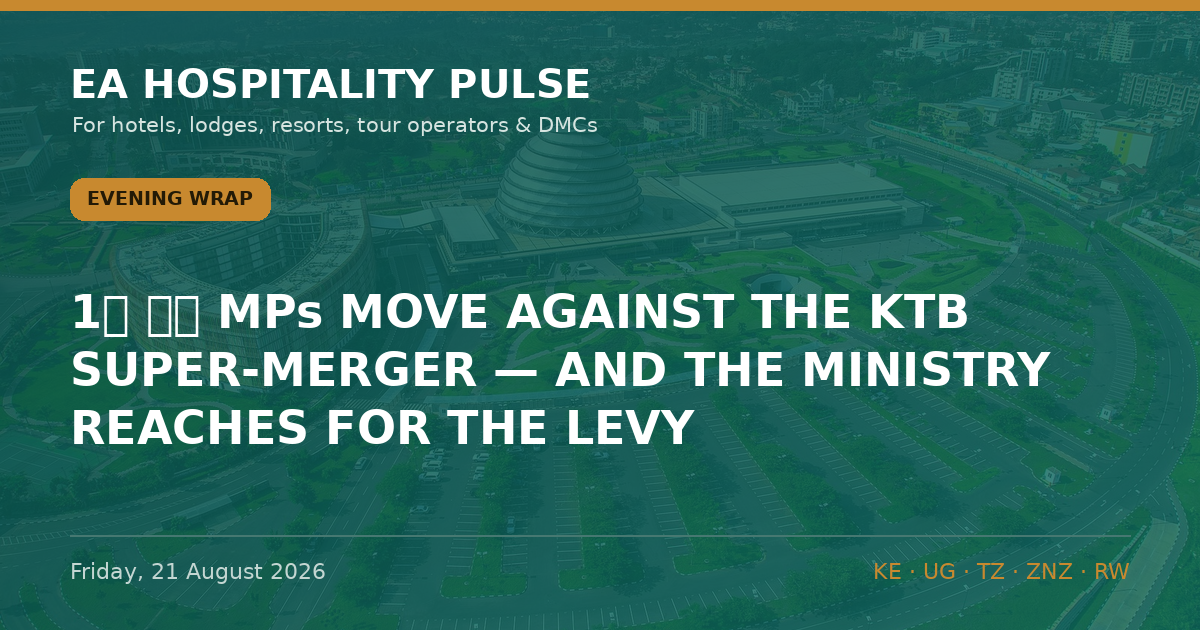
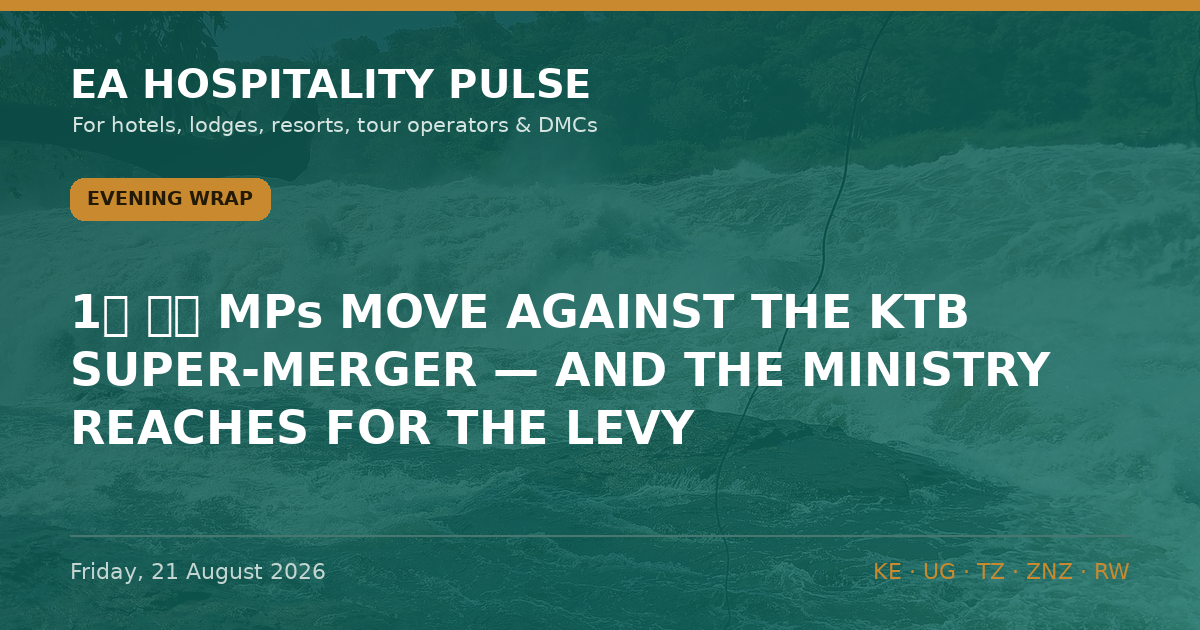
Auto-build: 2026-08-21 13:13 UTC

diff --git a/data.js b/data.js
@@ -54,15 +54,6 @@ window.EDITIONS = [
   "bodyHtml": "<p>☀ <strong>MORNING BRIEF — Tue 19 Aug 2026</strong><br><em>Quiet news slot — one expert read that matters more than any headline.</em></p>\n<p><strong>YOUR FASTEST-GROWING GUEST IS YOUR NEIGHBOUR — AND YOUR GOVERNMENT IS TAXING THEM AT THE BASE</strong></p>\n<p>Read the 2025 source-market tables and the story stops being about Europe. Uganda sent Kenya <strong>234,556 visitors in 2025 — 31% of all African arrivals, up 8.7%</strong>; Tanzania <strong>209,536, up 7.7%</strong> (KTB/TRI data via POATE 2026, reported by Citizen Digital &amp; New Vision). Kenya now targets <strong>300,000 Ugandan arrivals</strong>. In Rwanda it&#x27;s starker: the <strong>DRC is now the single largest source market — 185,420 visitors in H1 2026, 12.5% of all international arrivals</strong> (RDB). The regional guest is the base load now, not the overflow.</p>\n<p><strong>What most operators miss:</strong> the guest base changed but the playbook didn&#x27;t. The marginal booking now comes from a traveller who ignores Western Level-3 advisories, books short, drives or short-hauls in, and pays in a regional currency — yet we still run a long-haul-dollar operation: USD rack rates, GDS/OTA distribution, risk comms aimed at Europe. Worse, the same treasuries celebrating this demand are taxing its most price-sensitive flyer. Kenya&#x27;s JKIA passenger levy is now <strong>pledged to bondholders</strong> (Business Daily, 24 Jul) — hard to cut — with a 2% short-term-rental levy and a proposed travel-health-insurance charge stacking on top. Regional demand shrugs off advisories but is exquisitely sensitive to a $20 levy.</p>\n<p><span class=\"sowhat\">🎯 <strong>So what — by segment:</strong></span><br>🏙 <strong>City:</strong> regional corporate, VFR and events traffic is your steadiest base — build regional-agent and WhatsApp distribution, quote in regional terms, not just a USD rack. 🌿 <strong>Bush:</strong> regional guests are lower-ADR but fill shoulder/low season and hedge advisory-driven long-haul softness — watch the total trip cost, because a park-fee-plus-air-levy stack is what loses them. 🏖 <strong>Beach:</strong> the drive-and-short-haul market (Ugandans/Tanzanians to Diani &amp; Mombasa, regional flyers to Zanzibar) is now year-round base load — protect it from feeder-route fragility and levy creep.<br><span class=\"tagline\">🏷 Regional · Confirmed (KTB/TRI 2025, RDB H1 2026) / Inference on operator response.</span></p>\n<hr class=\"divider\">\n<p>✅ <strong>STILL TRUE</strong> — No EA advisory moved. Kenya <strong>US Level 2</strong> (core corridors, Diani, Watamu clear); Tanzania &amp; Zanzibar <strong>Level 3</strong> (since 31 Oct 2025); Uganda <strong>US Level 4</strong> on residual Ebola grounds despite its 28 Jul outbreak-over call (travel.state.gov, verified 12 Aug). The regional guest travels through all of it — don&#x27;t discount as though it had lifted.<br>💷 <strong>COST PULSE</strong> — Price regional in regional money: KES→UGX <strong>28.36</strong> · KES→TZS <strong>20.30</strong> · KES→RWF <strong>11.31</strong> (CBK weekly). Kenya diesel <strong>KSh 217.86/L</strong> (EPRA, 14 Aug) — refuse any supplier fuel surcharge this cycle.<br><span class=\"meta-line\">📅 <strong>WEEK AHEAD</strong> — <strong>19–21 Aug</strong> Hotel Expo Kenya, KICC · <strong>18–20 Aug</strong> AfPIF, Kigali Marriott · late Aug KNBS/UBOS/NISR CPI · <strong>26–28 Aug</strong> Africa Global PR Week, Nairobi · <strong>4 Sep</strong> Kwita Izina, Musanze.</span><br><span class=\"meta-line\">📡 <strong>RADAR</strong> — 470 in-window observations to 08:38 EAT; feed live. No EA advisory moved (only Mauritania/Netherlands/Ecuador flagged). Jambojet &amp; Airlink press pages moved behind Incapsula — a persistent blind spot, not news. Kenya Law feed heavy with court judgments, none hospitality.</span></p>\n<p>🔗 This edition on the web: https://eahospitalitypulse.com/editions/pulse-2026-08-19-morning.html</p>"
  },
  {
-  "id": "pulse-2026-08-18-special",
-  "date": "2026-08-18",
-  "dateDisplay": "Tuesday, 18 August 2026",
-  "edition": "Morning Brief",
-  "editionKey": "morning",
-  "summary": "1⃣ 🇰🇪 THE COAST IS OUTGROWING THE GATEWAY — AND THE NATIONAL NUMBER HIDES IT",
-  "bodyHtml": "<p>📊 <strong>EA HOSPITALITY PULSE — Special Edition</strong><br>🗓 Tuesday 18 August 2026 | 🇰🇪 KNBS data drop</p>\n<p><em>Kenya&#x27;s arrivals are up — but not where the headline says. Read the map before the margin.</em><br>━━━━━━━━━<br><strong>1⃣ 🇰🇪 THE COAST IS OUTGROWING THE GATEWAY — AND THE NATIONAL NUMBER HIDES IT</strong></p>\n<p>Official visitor arrivals now run through April. Jan–Apr 2026: <strong>828,830, up 9.5%</strong> on the same months of 2025 (757,245) — Kenya Leading Economic Indicators, June 2026, KNBS, released 14 Aug.</p>\n<p>The headline is real. The distribution is the story. Mombasa&#x27;s Moi International (MIA) took <strong>96,701 arrivals, up 19.7%</strong> year-on-year, while JKIA grew <strong>8.5%</strong> and land borders <strong>7.5%</strong>. The coast is recovering over twice as fast as the Nairobi gateway.</p>\n<p><strong>What everyone is missing:</strong> the +9.5% is not evenly yours. In April — the long-rains trough — national arrivals rose just 2.9% and <strong>JKIA fell 1.0%</strong> YoY. Strip the coast out and the city-gateway recovery is modest and seasonal. A Nairobi GM reading &quot;+9.5%&quot; as their own demand is reading the wrong line. Backing it: SGR passengers ran <strong>~12% ahead</strong> in Q1 — the Nairobi–Mombasa corridor is carrying this (KNBS).</p>\n<p><span class=\"tagline\">🏷 City/Beach · Kenya · Confirmed (KNBS arrivals &amp; SGR) / Inference (regional read)</span><br><span class=\"sowhat\">🎯 <strong>So what:</strong> <strong>Coast</strong> — demand is arriving; hold rate through the Sep–Oct build and stop discounting. <strong>Nairobi</strong> — treat H1 as flat-to-soft on your own gateway; win share through corporate, MICE and regional traffic, not a rising tide.</span></p>\n<p><strong>2⃣ 🇰🇪 THE CURRENCY IS QUIETLY REPRICING YOUR EUROPEAN GUEST</strong></p>\n<p>Over H1 2026 the shilling <strong>firmed</strong> against sterling (174.32→<strong>172.72</strong>) and the euro (151.37→<strong>149.22</strong>), flat against the dollar at <strong>~129.5</strong> (KNBS, June). Inflation sat at <strong>6.4%</strong>, the CBR held at <strong>8.75%</strong>.</p>\n<p>Read together: a European operator&#x27;s fixed FX budget now buys <strong>fewer shillings</strong> than in January — mild pressure on any KES-cost property selling into Europe, while dollar-priced lodges keep their spread intact.</p>\n<p><span class=\"tagline\">🏷 City/Bush/Beach · Kenya · Confirmed (KNBS forex/CPI) / Inference (pricing read)</span><br><span class=\"sowhat\">🎯 <strong>So what:</strong> If you cost in shillings and sell in euros or pounds, revisit 2027 contract rates now — the FX drift is against you. Price in USD and you&#x27;re insulated.</span></p>\n<p>━━━━━━━━━<br>🍲 <strong>SUPPLY-CHAIN SIDEBAR — where your southern-circuit kitchen shops</strong></p>\n<p>Informal cross-border trade <strong>fell 16.7%</strong> in 2025 (KSh 299.0m→249.1m), and <strong>Tanzania became the top source of informal imports at 47.2%</strong>, overwhelmingly <strong>food and live animals (78.5%)</strong> — KNBS Informal Cross-Border Trade Survey 2025, released 17 Aug. Main entry points: <strong>Namanga, Isebania, Malaba</strong> — the Amboseli, Mara and Uganda corridors.</p>\n<p><span class=\"sowhat\">🎯 <strong>So what:</strong> Southern-circuit lodges run partly on this informal Tanzanian fresh-food flow. A contracting, Tanzania-concentrated supply line is a produce-cost and continuity risk — worth a word with your F&amp;B suppliers before high season. 🏷 Bush · Confirmed (KNBS ICBT) / Inference.</span></p>\n<p>━━━━━━━━━<br>✅ <strong>STILL TRUE</strong> — Kenya remains US <strong>Level 2</strong>; core corridors (Nairobi, Diani, Watamu) sit in no Level 4 area (travel.state.gov, verified 12 Aug). Don&#x27;t discount on a story that hasn&#x27;t moved.</p>\n<p>⚡ <strong>COST PULSE</strong> — Nairobi diesel holds <strong>KSh 217.86/L</strong> to 14 Sep, ~KSh 14.28/L above landed-cost parity (EPRA / Business Daily, 14 Aug).</p>\n<p><span class=\"meta-line\">📅 <strong>WEEK AHEAD</strong> — <strong>19–21 Aug</strong> Hotel Expo Kenya, KICC · <strong>26–28 Aug</strong> Africa Global PR Week, Nairobi. Watch the <strong>May–June arrivals</strong> print to confirm the coast trend.</span></p>\n<p>🔗 This edition on the web: https://eahospitalitypulse.com/editions/pulse-2026-08-18-special.html<br>— EA Hospitality Pulse | Daily intelligence for city, bush &amp; beach properties</p>"
- },
- {
   "id": "pulse-2026-08-18-morning",
   "date": "2026-08-18",
   "dateDisplay": "Tuesday, 18 August 2026",
@@ -70,6 +61,15 @@ window.EDITIONS = [
   "editionKey": "morning",
   "summary": "1⃣ 🌍 THE AIRLIFT YOU'RE CELEBRATING IS THE LEAST PROFITABLE IN THE WORLD",
   "bodyHtml": "<p>🌅 <strong>EA HOSPITALITY PULSE — Morning Brief</strong><br>🗓 Tuesday 18 August 2026 | 🌍 🇰🇪 🇺🇬 🇷🇼 🇹🇿</p>\n<p><em>Expert Brief: East Africa is adding air routes faster than its airlines can afford to fly them.</em><br>━━━━━━━━━<br><strong>1⃣ 🌍 THE AIRLIFT YOU&#x27;RE CELEBRATING IS THE LEAST PROFITABLE IN THE WORLD</strong></p>\n<p>Every route launch lands as good news in this business. Uganda Airlines opens Entebbe–Accra on 27 Oct and daily Entebbe–Kigali on 18 Nov (announced 5 Aug, The EastAfrican); Airlink starts Cape Town–Zanzibar on 3 Oct. Read the balance sheet underneath and the mood changes.</p>\n<p>IATA&#x27;s December outlook put African carriers at <strong>US$1.30 of profit per passenger</strong> for 2026 against a <strong>US$7.90</strong> global average — a <strong>1.3% margin, the thinnest of any region</strong> (IATA, 9 Dec 2025). By its June AGM it had cut the 2026 line again: profit per passenger down to <strong>40 US cents</strong> from US$2.10 in 2025, and the continent&#x27;s total net profit halved to <strong>~US$100m</strong> (IATA &quot;Energy in Crisis&quot; outlook, 8 Jun 2026). East Africa&#x27;s recovery is riding on the most fragile airlift economics on the planet.</p>\n<p><strong>What everyone is missing:</strong> a new-route press release reads as demand arriving. It is actually thin-margin capacity being <strong>lent</strong> — and thin-margin capacity is the first thing cut when a season underperforms. Turkish suspended 18 routes for summer 2026, Istanbul–Dar es Salaam among them, final flights in May/June (reported 2026). The route you don&#x27;t help fill in its first two seasons is the route that isn&#x27;t there in year three. Airlift is not infrastructure you inherit; it&#x27;s a trade relationship you keep alive.</p>\n<p><span class=\"tagline\">🏷 City/Bush/Beach · Regional · Confirmed (IATA figures &amp; schedules) / Inference (fragility read)</span><br><span class=\"sowhat\">🎯 <strong>So what — by segment:</strong> <strong>City</strong> (Nairobi/Kigali/Kampala): put corporate blocks and MICE contracts onto the new regional frequencies so they survive to a third season. <strong>Bush:</strong> the luxury pivot means fewer, higher-value guests who still need a long-haul seat — cultivate the carriers that actually serve your source markets. <strong>Beach:</strong> feeder routes are the most fragile of all — a trial like Cape Town–Zanzibar lives or dies on load factor. Fill it or lose it.</span></p>\n<p>━━━━━━━━━<br>✅ <strong>STILL TRUE</strong> — Tanzania &amp; Zanzibar remain US <strong>Level 3</strong> (unchanged since 31 Oct 2025); Kenya <strong>Level 2</strong>, core tourist corridors clear (travel.state.gov, verified 12 Aug). Nothing moved overnight. Don&#x27;t discount as though it had.</p>\n<p>⚡ <strong>COST PULSE</strong> — Nairobi diesel holds at <strong>KSh 217.86/L</strong> to 14 Sep; operators are carrying roughly <strong>KSh 14.28/L above landed-cost parity</strong> — refuse any supplier fuel surcharge this cycle (EPRA / Business Daily, 14 Aug).</p>\n<p>🎤 <strong>MICE WATCH</strong> — <strong>AfPIF</strong> (300–500 delegates) fills the Kigali Marriott cluster <strong>18–20 Aug</strong>; <strong>Hotel Expo Kenya</strong> at KICC, <strong>19–21 Aug</strong>. Hold corporate rate, don&#x27;t discount into the shoulder.</p>\n<p><span class=\"meta-line\">📅 <strong>WEEK AHEAD</strong> — <strong>18 Aug</strong> WHO IHR Committee on the Bundibugyo PHEIC · <strong>22 Aug</strong> Julius Nyerere hydropower inauguration, TZ · <strong>26–28 Aug</strong> Africa Global PR Week, Mövenpick Nairobi · <strong>28 Aug</strong> WTA Africa Gala, Zanzibar · <strong>late Aug</strong> KNBS/UBOS/NISR CPI prints.</span></p>\n<p><span class=\"meta-line\">📡 <strong>RADAR</strong> — 593 in-window observations to 08:17 EAT; feed live. Jambojet and Airlink press pages moved again behind Incapsula — a persistent blind spot, not a quiet night. Kenya Law feed heavy with court judgments, none hospitality. No advisory level moved.</span></p>\n<p><span class=\"meta-line\">💬 Which inbound route would you actually miss — and are you filling it, or just watching it?</span></p>\n<p>🔗 This edition on the web: https://eahospitalitypulse.com/editions/pulse-2026-08-18-morning.html<br>— EA Hospitality Pulse | Daily intelligence for city, bush &amp; beach properties</p>"
+ },
+ {
+  "id": "pulse-2026-08-18-special",
+  "date": "2026-08-18",
+  "dateDisplay": "Tuesday, 18 August 2026",
+  "edition": "Morning Brief",
+  "editionKey": "morning",
+  "summary": "1⃣ 🇰🇪 THE COAST IS OUTGROWING THE GATEWAY — AND THE NATIONAL NUMBER HIDES IT",
+  "bodyHtml": "<p>📊 <strong>EA HOSPITALITY PULSE — Special Edition</strong><br>🗓 Tuesday 18 August 2026 | 🇰🇪 KNBS data drop</p>\n<p><em>Kenya&#x27;s arrivals are up — but not where the headline says. Read the map before the margin.</em><br>━━━━━━━━━<br><strong>1⃣ 🇰🇪 THE COAST IS OUTGROWING THE GATEWAY — AND THE NATIONAL NUMBER HIDES IT</strong></p>\n<p>Official visitor arrivals now run through April. Jan–Apr 2026: <strong>828,830, up 9.5%</strong> on the same months of 2025 (757,245) — Kenya Leading Economic Indicators, June 2026, KNBS, released 14 Aug.</p>\n<p>The headline is real. The distribution is the story. Mombasa&#x27;s Moi International (MIA) took <strong>96,701 arrivals, up 19.7%</strong> year-on-year, while JKIA grew <strong>8.5%</strong> and land borders <strong>7.5%</strong>. The coast is recovering over twice as fast as the Nairobi gateway.</p>\n<p><strong>What everyone is missing:</strong> the +9.5% is not evenly yours. In April — the long-rains trough — national arrivals rose just 2.9% and <strong>JKIA fell 1.0%</strong> YoY. Strip the coast out and the city-gateway recovery is modest and seasonal. A Nairobi GM reading &quot;+9.5%&quot; as their own demand is reading the wrong line. Backing it: SGR passengers ran <strong>~12% ahead</strong> in Q1 — the Nairobi–Mombasa corridor is carrying this (KNBS).</p>\n<p><span class=\"tagline\">🏷 City/Beach · Kenya · Confirmed (KNBS arrivals &amp; SGR) / Inference (regional read)</span><br><span class=\"sowhat\">🎯 <strong>So what:</strong> <strong>Coast</strong> — demand is arriving; hold rate through the Sep–Oct build and stop discounting. <strong>Nairobi</strong> — treat H1 as flat-to-soft on your own gateway; win share through corporate, MICE and regional traffic, not a rising tide.</span></p>\n<p><strong>2⃣ 🇰🇪 THE CURRENCY IS QUIETLY REPRICING YOUR EUROPEAN GUEST</strong></p>\n<p>Over H1 2026 the shilling <strong>firmed</strong> against sterling (174.32→<strong>172.72</strong>) and the euro (151.37→<strong>149.22</strong>), flat against the dollar at <strong>~129.5</strong> (KNBS, June). Inflation sat at <strong>6.4%</strong>, the CBR held at <strong>8.75%</strong>.</p>\n<p>Read together: a European operator&#x27;s fixed FX budget now buys <strong>fewer shillings</strong> than in January — mild pressure on any KES-cost property selling into Europe, while dollar-priced lodges keep their spread intact.</p>\n<p><span class=\"tagline\">🏷 City/Bush/Beach · Kenya · Confirmed (KNBS forex/CPI) / Inference (pricing read)</span><br><span class=\"sowhat\">🎯 <strong>So what:</strong> If you cost in shillings and sell in euros or pounds, revisit 2027 contract rates now — the FX drift is against you. Price in USD and you&#x27;re insulated.</span></p>\n<p>━━━━━━━━━<br>🍲 <strong>SUPPLY-CHAIN SIDEBAR — where your southern-circuit kitchen shops</strong></p>\n<p>Informal cross-border trade <strong>fell 16.7%</strong> in 2025 (KSh 299.0m→249.1m), and <strong>Tanzania became the top source of informal imports at 47.2%</strong>, overwhelmingly <strong>food and live animals (78.5%)</strong> — KNBS Informal Cross-Border Trade Survey 2025, released 17 Aug. Main entry points: <strong>Namanga, Isebania, Malaba</strong> — the Amboseli, Mara and Uganda corridors.</p>\n<p><span class=\"sowhat\">🎯 <strong>So what:</strong> Southern-circuit lodges run partly on this informal Tanzanian fresh-food flow. A contracting, Tanzania-concentrated supply line is a produce-cost and continuity risk — worth a word with your F&amp;B suppliers before high season. 🏷 Bush · Confirmed (KNBS ICBT) / Inference.</span></p>\n<p>━━━━━━━━━<br>✅ <strong>STILL TRUE</strong> — Kenya remains US <strong>Level 2</strong>; core corridors (Nairobi, Diani, Watamu) sit in no Level 4 area (travel.state.gov, verified 12 Aug). Don&#x27;t discount on a story that hasn&#x27;t moved.</p>\n<p>⚡ <strong>COST PULSE</strong> — Nairobi diesel holds <strong>KSh 217.86/L</strong> to 14 Sep, ~KSh 14.28/L above landed-cost parity (EPRA / Business Daily, 14 Aug).</p>\n<p><span class=\"meta-line\">📅 <strong>WEEK AHEAD</strong> — <strong>19–21 Aug</strong> Hotel Expo Kenya, KICC · <strong>26–28 Aug</strong> Africa Global PR Week, Nairobi. Watch the <strong>May–June arrivals</strong> print to confirm the coast trend.</span></p>\n<p>🔗 This edition on the web: https://eahospitalitypulse.com/editions/pulse-2026-08-18-special.html<br>— EA Hospitality Pulse | Daily intelligence for city, bush &amp; beach properties</p>"
  },
  {
   "id": "pulse-2026-08-17-evening",
@@ -2735,4 +2735,4 @@ window.INSIGHTS = [
   "editionKey": "evening"
  }
 ];
-window.BUILT_AT = "2026-08-21 16:11";
+window.BUILT_AT = "2026-08-21 13:13";

diff --git a/editions/pulse-2026-08-17-evening.html b/editions/pulse-2026-08-17-evening.html
@@ -139,7 +139,7 @@ footer.s{text-align:center;color:var(--muted);font-family:Helvetica Neue,Arial,s
 <p>🔗 This edition on the web: https://eahospitalitypulse.com/editions/pulse-2026-08-17-evening.html<br>💼 Today&#x27;s Big Read on LinkedIn: https://www.linkedin.com/company/ea-hospitality-pulse/<br>— EA Hospitality Pulse | Daily intelligence for city, bush &amp; beach properties</p>
     <div class="more"><b>More from Monday, 17 August 2026:</b> <a href="pulse-2026-08-17-midday.html">Midday Pulse</a></div>
     <aside class="refs" aria-label="Reference guides"><h2>Reference</h2><ul><li><a href="../guides/ota-commission-what-it-actually-costs.html">What OTA commission actually costs an East African hotel</a></li><li><a href="../guides/park-permit-fees-east-africa.html">Park and permit fees across East Africa: what to check before you quote</a></li><li><a href="../guides/sustainability-compliance-east-africa.html">Sustainability compliance in East Africa — plastics, carbon and certification, without the hype</a></li><li><a href="../guides/tech-stack-east-africa.html">The East African hotel tech stack — payment costs, PMS fit and where AI pricing actually works</a></li><li><a href="../guides/travel-advisories-what-actually-moves-bookings.html">Reading a travel advisory: what actually moves bookings</a></li></ul></aside>
-    <nav class="pnrow"><a class="pn prev" href="pulse-2026-08-17-midday.html" rel="prev">← Midday Pulse · Monday, 17 August 2026</a><a class="pn next" href="pulse-2026-08-18-morning.html" rel="next">Morning Brief · Tuesday, 18 August 2026 →</a></nav>
+    <nav class="pnrow"><a class="pn prev" href="pulse-2026-08-17-midday.html" rel="prev">← Midday Pulse · Monday, 17 August 2026</a><a class="pn next" href="pulse-2026-08-18-special.html" rel="next">Morning Brief · Tuesday, 18 August 2026 →</a></nav>
     <div class="sub">
       <b>Follow the Pulse</b> — three briefs a day across Kenya, Uganda, Tanzania, Zanzibar &amp; Rwanda.<br>
       <a href="https://t.me/eahospitalitypulse" target="_blank" rel="noopener">📣 Telegram (full editions)</a>

diff --git a/editions/pulse-2026-08-18-morning.html b/editions/pulse-2026-08-18-morning.html
@@ -141,7 +141,7 @@ footer.s{text-align:center;color:var(--muted);font-family:Helvetica Neue,Arial,s
 <p>🔗 This edition on the web: https://eahospitalitypulse.com/editions/pulse-2026-08-18-morning.html<br>— EA Hospitality Pulse | Daily intelligence for city, bush &amp; beach properties</p>
     <div class="more"><b>More from Tuesday, 18 August 2026:</b> <a href="pulse-2026-08-18-special.html">Morning Brief</a></div>
     <aside class="refs" aria-label="Reference guides"><h2>Reference</h2><ul><li><a href="../guides/ota-commission-what-it-actually-costs.html">What OTA commission actually costs an East African hotel</a></li><li><a href="../guides/park-permit-fees-east-africa.html">Park and permit fees across East Africa: what to check before you quote</a></li><li><a href="../guides/sustainability-compliance-east-africa.html">Sustainability compliance in East Africa — plastics, carbon and certification, without the hype</a></li><li><a href="../guides/tech-stack-east-africa.html">The East African hotel tech stack — payment costs, PMS fit and where AI pricing actually works</a></li><li><a href="../guides/travel-advisories-what-actually-moves-bookings.html">Reading a travel advisory: what actually moves bookings</a></li></ul></aside>
-    <nav class="pnrow"><a class="pn prev" href="pulse-2026-08-17-evening.html" rel="prev">← Evening Wrap · Monday, 17 August 2026</a><a class="pn next" href="pulse-2026-08-18-special.html" rel="next">Morning Brief · Tuesday, 18 August 2026 →</a></nav>
+    <nav class="pnrow"><a class="pn prev" href="pulse-2026-08-18-special.html" rel="prev">← Morning Brief · Tuesday, 18 August 2026</a><a class="pn next" href="pulse-2026-08-19-morning.html" rel="next">Morning Brief · Wednesday, 19 August 2026 →</a></nav>
     <div class="sub">
       <b>Follow the Pulse</b> — three briefs a day across Kenya, Uganda, Tanzania, Zanzibar &amp; Rwanda.<br>
       <a href="https://t.me/eahospitalitypulse" target="_blank" rel="noopener">📣 Telegram (full editions)</a>

diff --git a/editions/pulse-2026-08-18-special.html b/editions/pulse-2026-08-18-special.html
@@ -145,7 +145,7 @@ footer.s{text-align:center;color:var(--muted);font-family:Helvetica Neue,Arial,s
 <p>🔗 This edition on the web: https://eahospitalitypulse.com/editions/pulse-2026-08-18-special.html<br>— EA Hospitality Pulse | Daily intelligence for city, bush &amp; beach properties</p>
     <div class="more"><b>More from Tuesday, 18 August 2026:</b> <a href="pulse-2026-08-18-morning.html">Morning Brief</a></div>
     <aside class="refs" aria-label="Reference guides"><h2>Reference</h2><ul><li><a href="../guides/ota-commission-what-it-actually-costs.html">What OTA commission actually costs an East African hotel</a></li><li><a href="../guides/park-permit-fees-east-africa.html">Park and permit fees across East Africa: what to check before you quote</a></li><li><a href="../guides/sustainability-compliance-east-africa.html">Sustainability compliance in East Africa — plastics, carbon and certification, without the hype</a></li><li><a href="../guides/tech-stack-east-africa.html">The East African hotel tech stack — payment costs, PMS fit and where AI pricing actually works</a></li><li><a href="../guides/travel-advisories-what-actually-moves-bookings.html">Reading a travel advisory: what actually moves bookings</a></li></ul></aside>
-    <nav class="pnrow"><a class="pn prev" href="pulse-2026-08-18-morning.html" rel="prev">← Morning Brief · Tuesday, 18 August 2026</a><a class="pn next" href="pulse-2026-08-19-morning.html" rel="next">Morning Brief · Wednesday, 19 August 2026 →</a></nav>
+    <nav class="pnrow"><a class="pn prev" href="pulse-2026-08-17-evening.html" rel="prev">← Evening Wrap · Monday, 17 August 2026</a><a class="pn next" href="pulse-2026-08-18-morning.html" rel="next">Morning Brief · Tuesday, 18 August 2026 →</a></nav>
     <div class="sub">
       <b>Follow the Pulse</b> — three briefs a day across Kenya, Uganda, Tanzania, Zanzibar &amp; Rwanda.<br>
       <a href="https://t.me/eahospitalitypulse" target="_blank" rel="noopener">📣 Telegram (full editions)</a>

diff --git a/editions/pulse-2026-08-19-morning.html b/editions/pulse-2026-08-19-morning.html
@@ -136,7 +136,7 @@ footer.s{text-align:center;color:var(--muted);font-family:Helvetica Neue,Arial,s
 <p>🔗 This edition on the web: https://eahospitalitypulse.com/editions/pulse-2026-08-19-morning.html</p>
     <div class="more"><b>More from Wednesday, 19 August 2026:</b> <a href="pulse-2026-08-19-evening.html">Evening Wrap</a></div>
     <aside class="refs" aria-label="Reference guides"><h2>Reference</h2><ul><li><a href="../guides/ota-commission-what-it-actually-costs.html">What OTA commission actually costs an East African hotel</a></li><li><a href="../guides/park-permit-fees-east-africa.html">Park and permit fees across East Africa: what to check before you quote</a></li><li><a href="../guides/sustainability-compliance-east-africa.html">Sustainability compliance in East Africa — plastics, carbon and certification, without the hype</a></li><li><a href="../guides/tech-stack-east-africa.html">The East African hotel tech stack — payment costs, PMS fit and where AI pricing actually works</a></li><li><a href="../guides/travel-advisories-what-actually-moves-bookings.html">Reading a travel advisory: what actually moves bookings</a></li></ul></aside>
-    <nav class="pnrow"><a class="pn prev" href="pulse-2026-08-18-special.html" rel="prev">← Morning Brief · Tuesday, 18 August 2026</a><a class="pn next" href="pulse-2026-08-19-evening.html" rel="next">Evening Wrap · Wednesday, 19 August 2026 →</a></nav>
+    <nav class="pnrow"><a class="pn prev" href="pulse-2026-08-18-morning.html" rel="prev">← Morning Brief · Tuesday, 18 August 2026</a><a class="pn next" href="pulse-2026-08-19-evening.html" rel="next">Evening Wrap · Wednesday, 19 August 2026 →</a></nav>
     <div class="sub">
       <b>Follow the Pulse</b> — three briefs a day across Kenya, Uganda, Tanzania, Zanzibar &amp; Rwanda.<br>
       <a href="https://t.me/eahospitalitypulse" target="_blank" rel="noopener">📣 Telegram (full editions)</a>

diff --git a/editions/pulse-2026-08-21-evening.html b/editions/pulse-2026-08-21-evening.html
@@ -122,7 +122,7 @@ footer.s{text-align:center;color:var(--muted);font-family:Helvetica Neue,Arial,s
 <div class="wrap">
   <article class="art">
     <img class="hero" src="../og/pulse-2026-08-21-evening-clean.png" alt="Evening Wrap — Friday, 21 August 2026" loading="eager">
-    
+    <p class="hcredit">Photo: BMKME · <a href="https://commons.wikimedia.org/wiki/File:White_Nile_Rapids_Near_Murchison_Falls_Viewing_Point,_Uganda_01.jpg" target="_blank" rel="noopener nofollow">Wikimedia Commons</a> · <a href="https://creativecommons.org/licenses/by-sa/4.0" target="_blank" rel="noopener nofollow">CC BY-SA 4.0</a></p>
     <nav class="crumbs" aria-label="Breadcrumb"><a href="../index.html">Home</a><span aria-hidden="true">/</span><a href="../index.html#archive">Editions</a><span aria-hidden="true">/</span><span aria-current="page">Evening Wrap, Friday, 21 August 2026</span></nav>
     <div class="kicker"><span class="badge">Evening Wrap</span><time datetime="2026-08-21">Friday, 21 August 2026</time></div>
     <h1>MPs Move Against the KTB Super-merger — and the Ministry Reaches for the Levy.</h1>

diff --git a/index.html b/index.html
@@ -456,7 +456,7 @@
   .imp-demand{color:var(--sage)} .imp-margin{color:var(--coral)} .imp-risk{color:#ff5b5b} .imp-watch{color:var(--amber)}
   @media(max-width:520px){.imp{position:static;display:inline-flex;margin:0 0 9px}.insight h3,.insight .imeta{padding-right:0}}
 </style>
-<!--BUILD_STAMP:20260821-1611--></head>
+<!--BUILD_STAMP:20260821-1313--></head>
 <body>
 <header class="site">
   <div class="wrap topbar">

diff --git a/ledger.js b/ledger.js
@@ -1,5 +1,5 @@
 window.LEDGER = {
- "updated": "2026-08-21 16:11",
+ "updated": "2026-08-21 13:13",
  "stats": {
   "total": 110,
   "open": 89,
